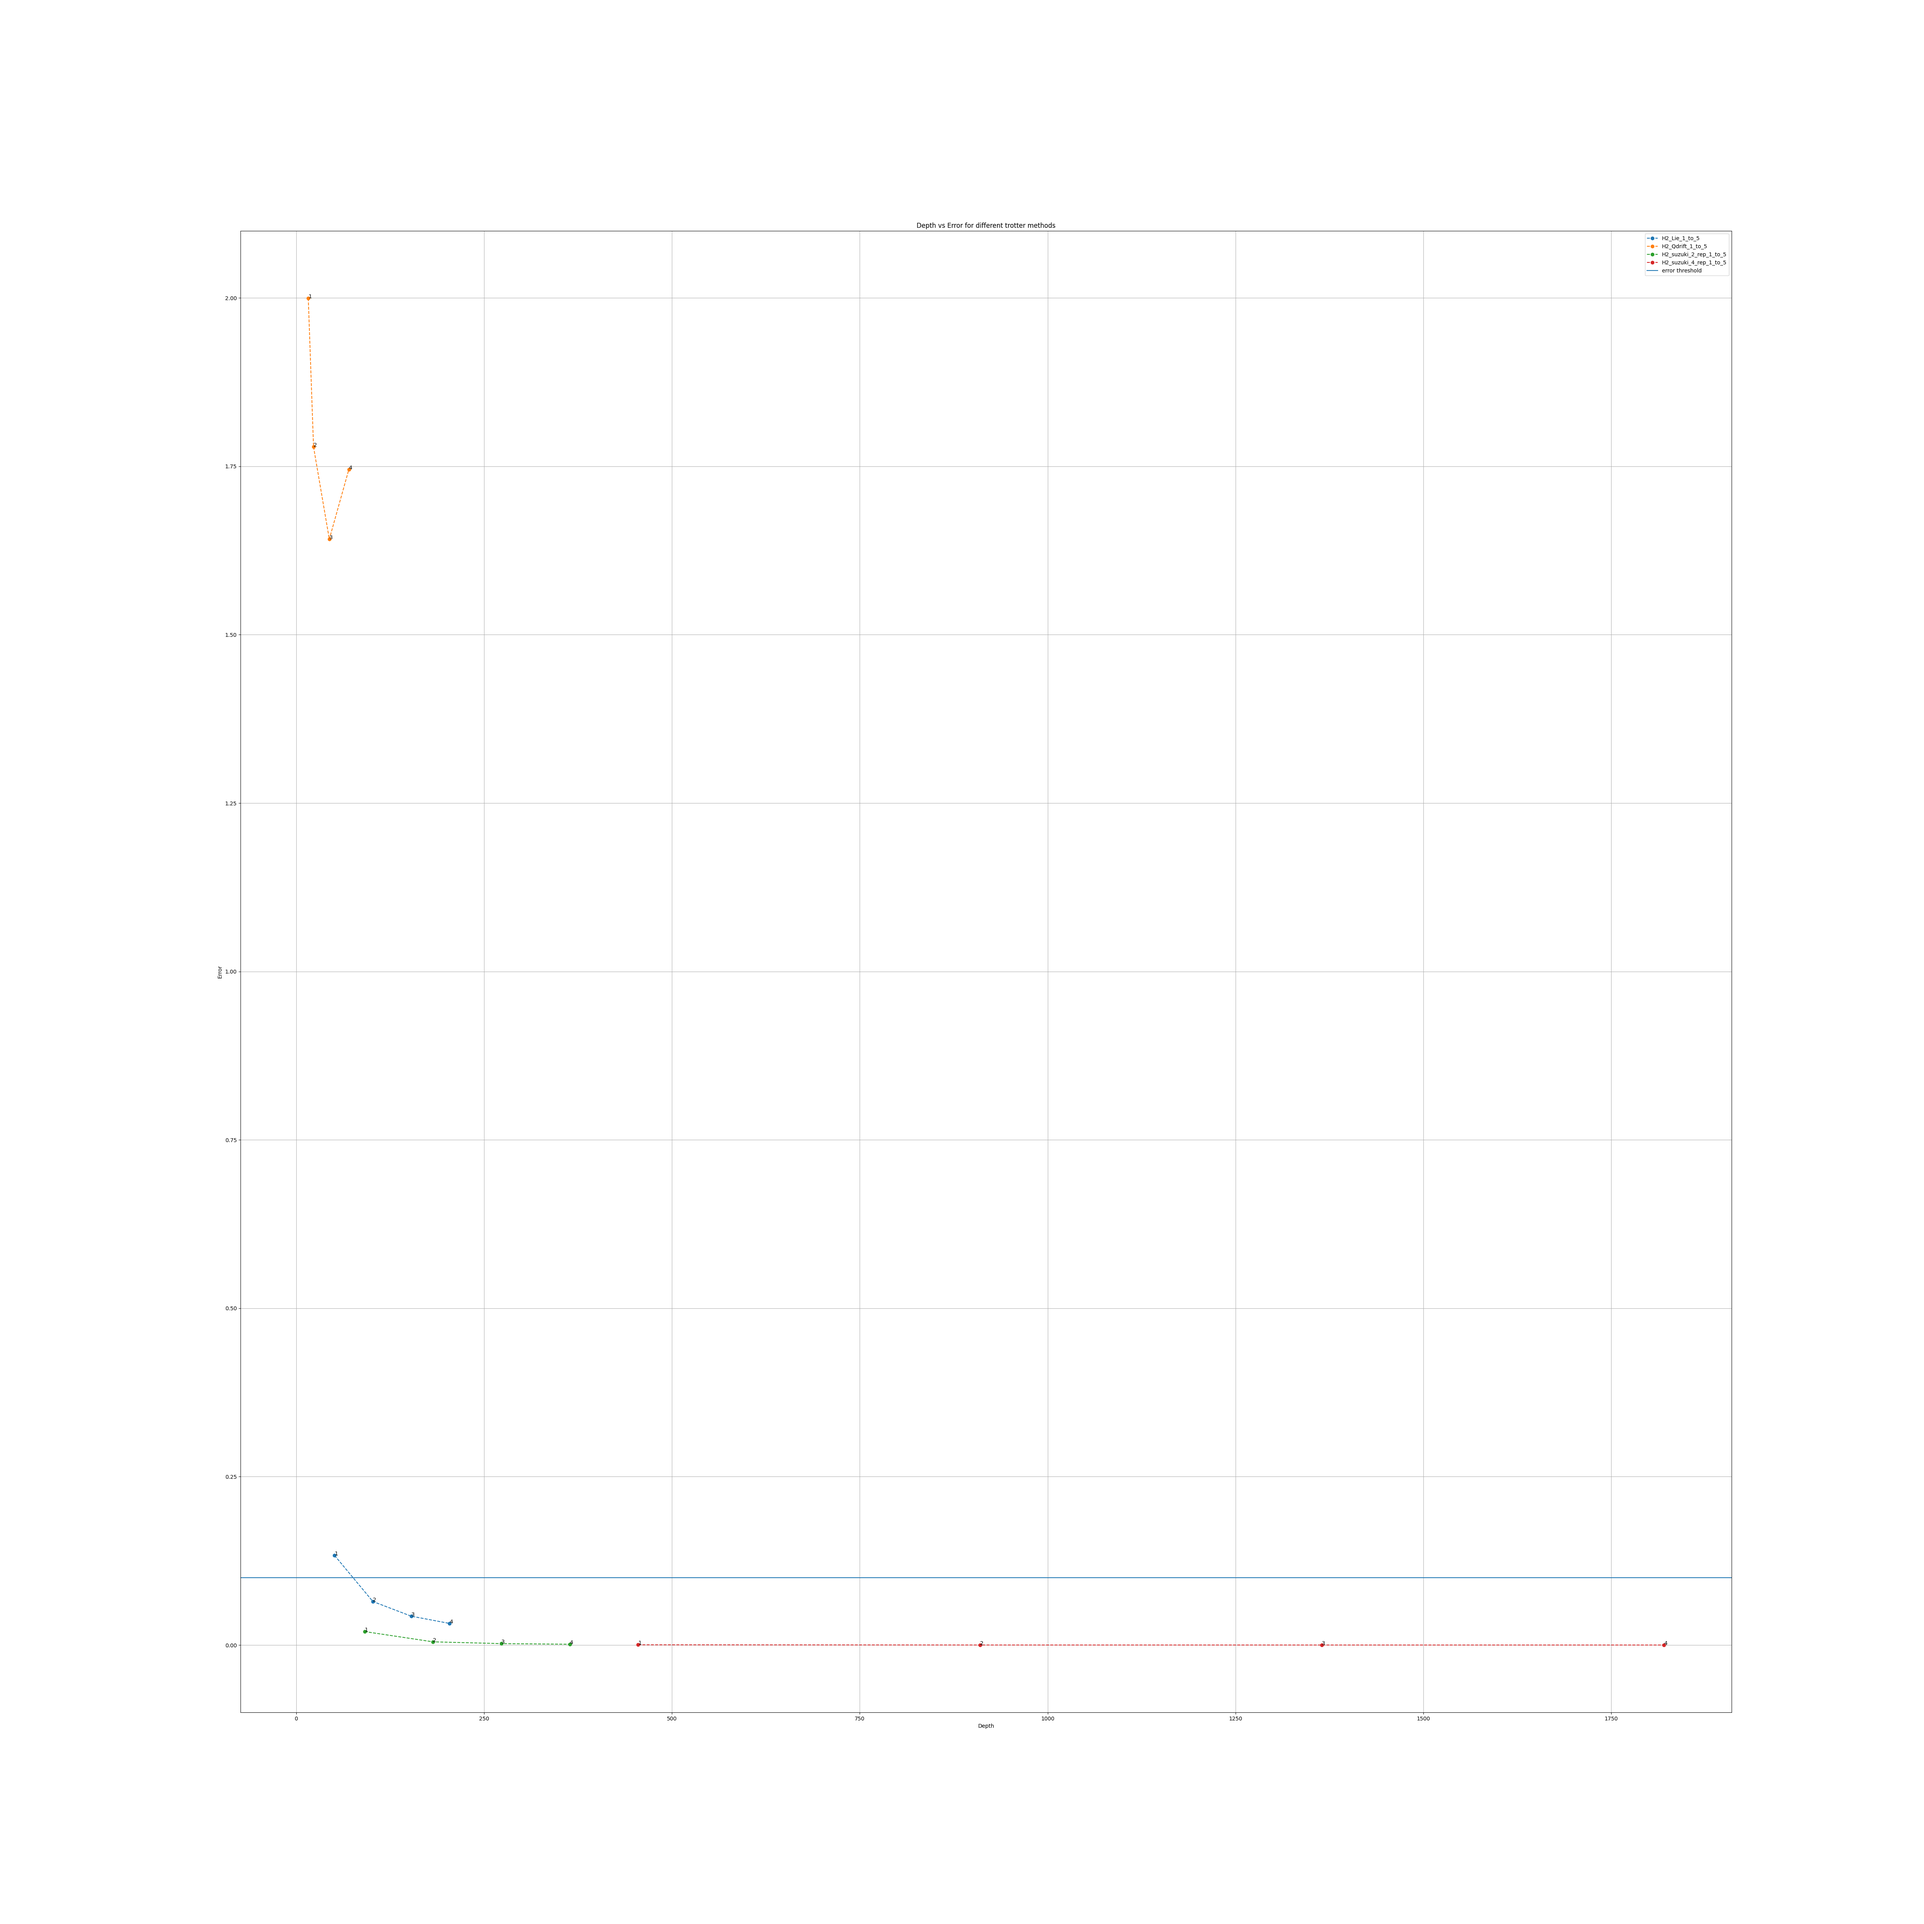
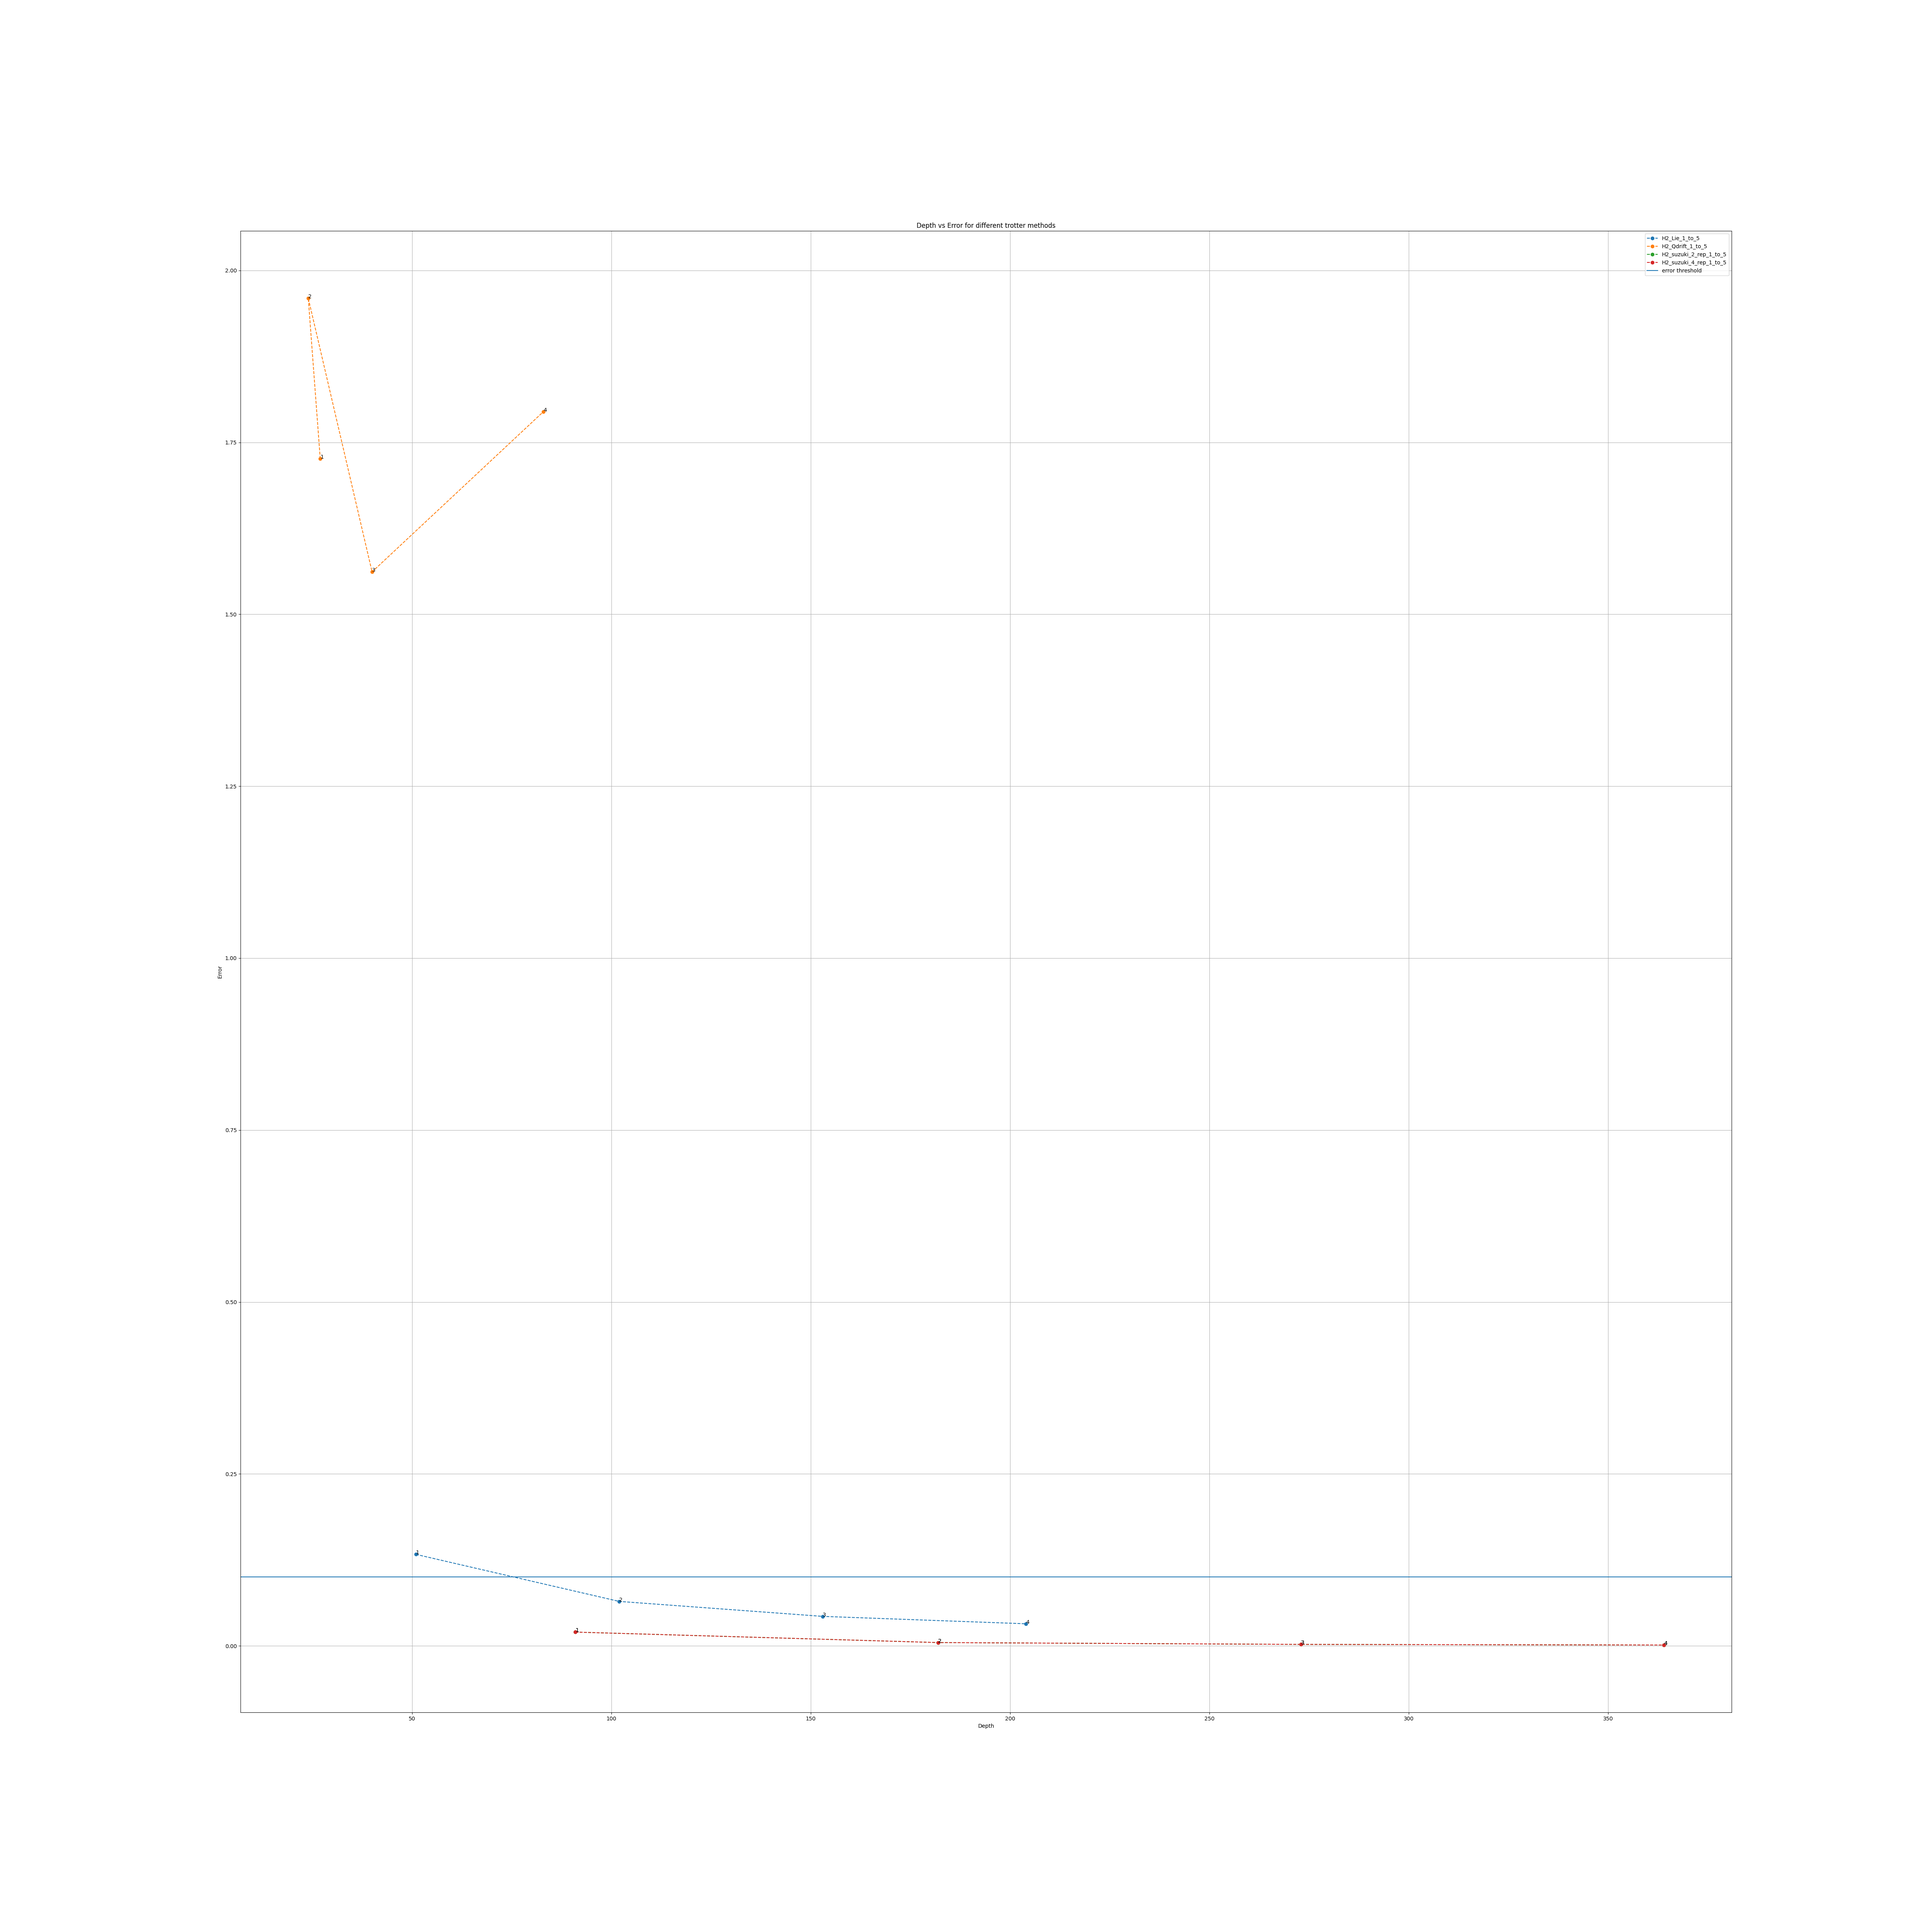
Refactoring Trotter.

diff --git a/src/qdrift_trotter.py b/src/qdrift_trotter.py
@@ -1,41 +1,29 @@
-from qiskit import QuantumCircuit
-from qiskit.circuit.library import PauliEvolutionGate
 from qiskit.synthesis import QDrift
-from constructor import Constructor, hamiltonian_circuit_error, get_hamiltonian_unitary
+from constructor import Constructor, hamiltonian_circuit_error
 
 import numpy as np
 
 
 class Qdrift(Constructor):
-    def __init__(self):
+    def __init__(self, _reps: int = 1):
         super().__init__("QDRIFT")
+        assert _reps > 0, "Incorrect number of reps provided"
+        self.reps = _reps
+        self.synthesizer = QDrift(reps=_reps)
 
-    def get_circuit(self, _reps: int = 1) -> QuantumCircuit:
-        """Get Hamiltonian circuit.
-        Get the higher level circuit for the Hamiltonian.
-        Note that the circuit must be converted to fundamental gates for
-        measuring the gate depth.
+    def re_init(self, _reps):
+        """Re-initialize synthesizer
+        Re-initializes the synthesizer with new number of reps.
 
         Args:
             _reps: Number of times QDRIFT must be repeated in the circuit.
-
         Raises:
             AssertionError: Incorrect rep count.
             AssertionError: QDrift could not construct circuit.
         """
         assert _reps > 0, "Incorrect number of reps provided"
-        synthesizer = QDrift(reps=_reps)  # order 1 always.
-
-        assert synthesizer is not None, "Error constructing the circuit."
-        evo_gate = PauliEvolutionGate(self.pauli_op, 1.0, synthesis=synthesizer)
-
-        num_qubits = evo_gate.num_qubits
-        self.num_qubits = num_qubits
-        circ = QuantumCircuit(num_qubits)  # reset circuit everytime to avoid pile-up
-        circ.append(evo_gate, list(range(num_qubits)))
-
-        self.circuit = circ
-        return circ
+        self.synthesizer = QDrift(reps=_reps)
+        assert self.synthesizer is not None, "Error constructing the circuit."
 
 
 def loop(a, b, print_circuit, hamiltonian):
@@ -43,7 +31,8 @@ def loop(a, b, print_circuit, hamiltonian):
     constructor.load_hamiltonian(hamiltonian)
     min_err = np.inf
     for reps in range(a, b):
-        constructor.get_circuit(reps)
+        constructor.re_init(reps)
+        constructor.get_circuit()
         pauli_op = constructor.pauli_op
         dec_circuit = constructor.decompose_circuit()
         if print_circuit:
@@ -59,7 +48,7 @@ def loop(a, b, print_circuit, hamiltonian):
 
 
 def main():
-    loop(10, 11, False, "LiH")
+    loop(1, 4, False, "H2")
 
 
 if __name__ == "__main__":

diff --git a/src/lietrotter.py b/src/lietrotter.py
@@ -1,40 +1,29 @@
-from qiskit import QuantumCircuit
-from qiskit.circuit.library import PauliEvolutionGate
 from qiskit.synthesis import LieTrotter
 from constructor import Constructor, hamiltonian_circuit_error
 import numpy as np
 
 
 class Lie(Constructor):
-    def __init__(self):
+    def __init__(self, _reps: int = 1):
         super().__init__("LIE")
+        assert _reps > 0, "Incorrect number of reps provided"
+        self.reps = _reps
+        self.synthesizer = LieTrotter(reps=_reps)
+        assert self.synthesizer is not None, "Error constructing the circuit."
 
-    def get_circuit(self, _reps: int = 1) -> QuantumCircuit:
-        """Get Hamiltonian circuit.
-        Get the higher level circuit for the Hamiltonian.
-        Note that the circuit must be converted to fundamental gates for
-        measuring the gate depth.
+    def re_init(self, _reps):
+        """Re-initialize synthesizer
+        Re-initializes the synthesizer with new number of reps.
 
         Args:
             _reps: Number of times QDRIFT must be repeated in the circuit.
-
         Raises:
             AssertionError: Incorrect rep count.
             AssertionError: QDrift could not construct circuit.
         """
         assert _reps > 0, "Incorrect number of reps provided"
-        synthesizer = LieTrotter(reps=_reps)  # order 1 always.
-
-        assert synthesizer is not None, "Error constructing the circuit."
-        evo_gate = PauliEvolutionGate(self.pauli_op, 1.0, synthesis=synthesizer)
-
-        num_qubits = evo_gate.num_qubits
-        self.num_qubits = num_qubits
-        circ = QuantumCircuit(num_qubits)  # reset circuit everytime to avoid pile-up
-        circ.append(evo_gate, list(range(num_qubits)))
-
-        self.circuit = circ
-        return circ
+        self.synthesizer = LieTrotter(reps=_reps)
+        assert self.synthesizer is not None, "Error constructing the circuit."
 
 
 def loop(a, b, print_circuit, hamiltonian):
@@ -42,7 +31,8 @@ def loop(a, b, print_circuit, hamiltonian):
     constructor.load_hamiltonian(hamiltonian)
     min_err = np.inf
     for reps in range(a, b):
-        constructor.get_circuit(reps)
+        constructor.re_init(reps)
+        constructor.get_circuit()
         pauli_op = constructor.pauli_op
         dec_circuit = constructor.decompose_circuit()
         if print_circuit:
@@ -58,7 +48,7 @@ def loop(a, b, print_circuit, hamiltonian):
 
 
 def main():
-    loop(1, 2, False, "LiH")
+    loop(1, 2, False, "H2")
 
 
 if __name__ == "__main__":

diff --git a/src/suzuki.py b/src/suzuki.py
@@ -1,5 +1,3 @@
-from qiskit import QuantumCircuit
-from qiskit.circuit.library import PauliEvolutionGate
 from qiskit.synthesis import SuzukiTrotter
 from constructor import Constructor
 
@@ -10,30 +8,16 @@ class Suzuki(Constructor):
         assert order > 0, "Incorrect order."
         self.order = order
 
-    def get_circuit(self, _reps: int = 1) -> QuantumCircuit:
-        """Get Hamiltonian circuit.
-        Get the higher level circuit for the Hamiltonian.
-        Note that the circuit must be converted to fundamental gates for
-        measuring the gate depth.
+    def re_init(self, _reps):
+        """Re-initialize synthesizer
+        Re-initializes the synthesizer with new number of reps.
 
         Args:
-            _reps: Number of times Suzuki must be repeated in the circuit.
-            _order: The complexity each iteration goes through.
-
+            _reps: Number of times QDRIFT must be repeated in the circuit.
         Raises:
-            AssertionError: Incorrect rep count or order.
+            AssertionError: Incorrect rep count.
             AssertionError: QDrift could not construct circuit.
         """
-        assert _reps > 0, "Incorrect number of reps provided."
-        synthesizer = SuzukiTrotter(order=self.order, reps=_reps)
-
-        assert synthesizer is not None, "Error constructing the circuit."
-        evo_gate = PauliEvolutionGate(self.pauli_op, 1.0, synthesis=synthesizer)
-
-        num_qubits = evo_gate.num_qubits
-        self.num_qubits = num_qubits
-        circ = QuantumCircuit(num_qubits)  # reset circuit everytime to avoid pile-up
-        circ.append(evo_gate, list(range(num_qubits)))
-
-        self.circuit = circ
-        return circ
+        assert _reps > 0, "Incorrect number of reps provided"
+        self.synthesizer = SuzukiTrotter(reps=_reps)
+        assert self.synthesizer is not None, "Error constructing the circuit."

diff --git a/src/constructor.py b/src/constructor.py
@@ -31,6 +31,7 @@ def get_circuit_unitary(circuit, decimals: int = 8, backend=None):
     if backend is None:
         backend = Aer.get_backend("aer_simulator")
     unitary = None
+    # have to make copy to avoid changes in the original circuit due to save_unitary.
     new_circuit = circuit.copy()
     new_circuit.save_unitary()
     transpiled = transpile(new_circuit, backend)
@@ -73,15 +74,34 @@ class Constructor:
         self.method = method
         self.hamiltonian = None
         self.circuit = None
+        self.synthesizer = None
 
     def load_hamiltonian(self, hamiltonian: str):
         self.hamiltonian = hamiltonian
         self.pauli_op: PauliSumOp = get_pauli_sum_op(hamiltonian)
 
-    def get_circuit(
-        self, operator: PauliEvolutionGate, _reps: int = 1
-    ) -> QuantumCircuit:
+    def re_init(self):
+        """
+        Re-initialize the synthesizer for the construction of circuit.
+        """
         raise NotImplemented("Accessing superclass is not allowed")
+
+    def get_circuit(self) -> QuantumCircuit:
+        """Get Hamiltonian circuit.
+
+        Get the higher level circuit for the Hamiltonian.
+        Note that the circuit must be converted to fundamental gates for
+        measuring the gate depth.
+        """
+        evo_gate = PauliEvolutionGate(self.pauli_op, 1.0, synthesis=self.synthesizer)
+
+        num_qubits = evo_gate.num_qubits
+        self.num_qubits = num_qubits
+        circ = QuantumCircuit(num_qubits)  # reset circuit everytime to avoid pile-up
+        circ.append(evo_gate, list(range(num_qubits)))
+
+        self.circuit = circ
+        return circ
 
     def decompose_circuit(self) -> QuantumCircuit:
         assert self.circuit is not None, "Circuit not prepared yet."

diff --git a/src/run.py b/src/run.py
@@ -17,7 +17,8 @@ def iterate_over_reps(constructor, reps_s, reps_e):
     min_circuit = None
 
     for reps in range(reps_s, reps_e):
-        constructor.get_circuit(reps)
+        constructor.re_init(reps)
+        constructor.get_circuit()
         pauli_op = constructor.pauli_op
         dec_circuit = constructor.decompose_circuit()
         error = hamiltonian_circuit_error(dec_circuit, pauli_op)
